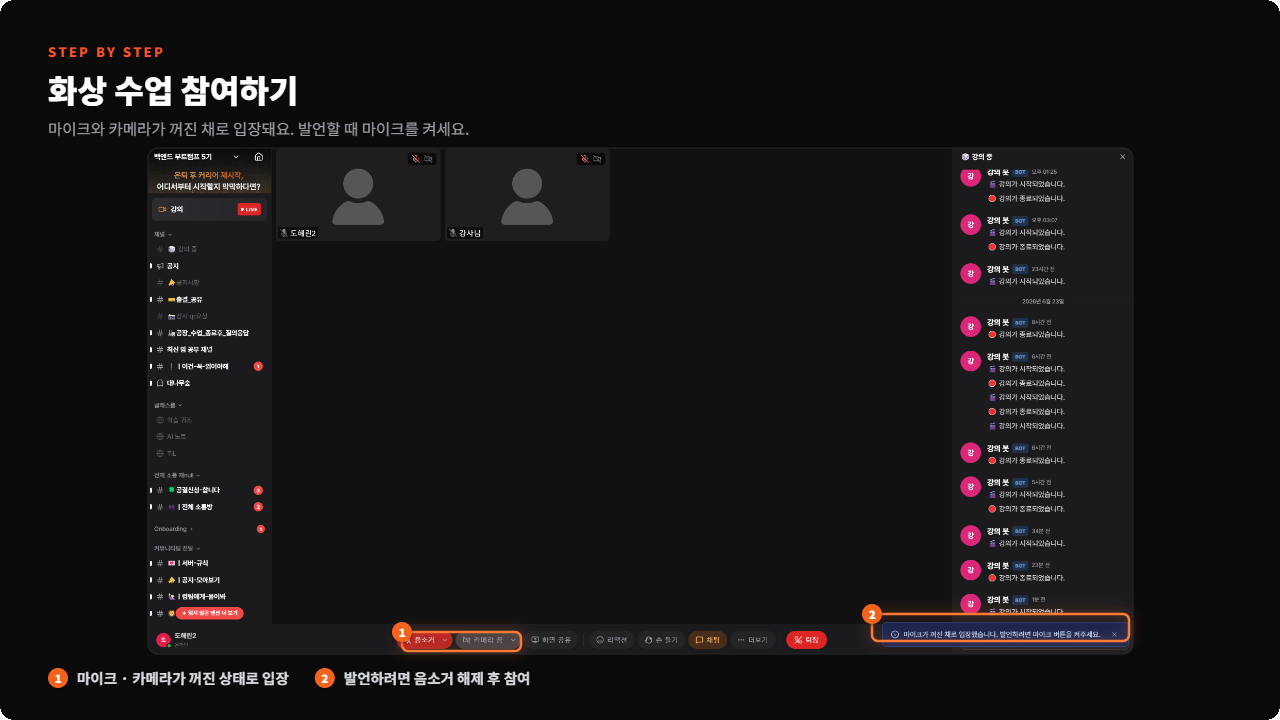
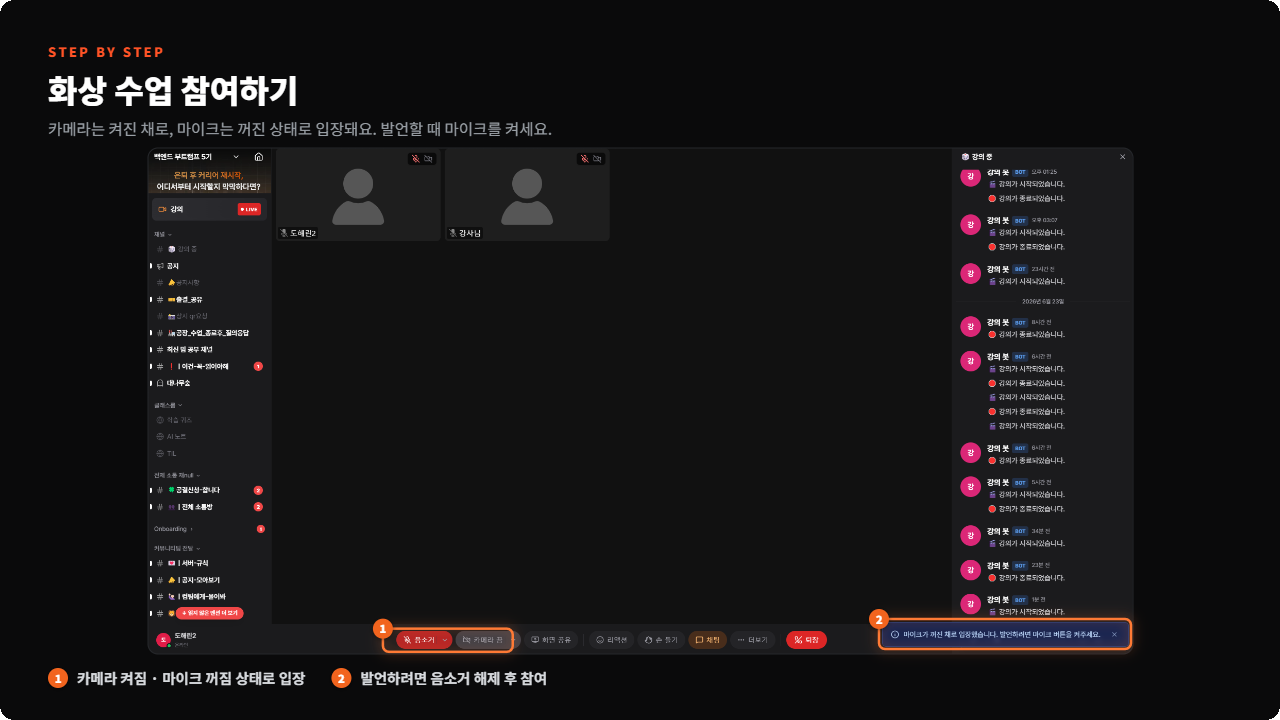
fix(campfire): 수강생 화상 수업 입장 정책 변경 (카메라 켜짐)
- 수업 입장 시 '마이크·카메라 꺼짐' → '카메라 켜짐, 마이크 꺼짐'으로 정책 반영 (본문 + 스크린샷 교체)

Changed region(s): [[0.0625, 0.8556, 0.4375, 0.9778], [0.6562, 0.825, 0.9062, 0.9167], [0.0312, 0.1528, 0.4375, 0.2139]]

diff --git a/campfire/1-planning/campfire-guide/student-data.js b/campfire/1-planning/campfire-guide/student-data.js
@@ -138,7 +138,7 @@ const GUIDE_DATA = [
         html:`
           <ol>
             <li>수업 시간이 되면 강사님이 강의를 열어요. 사이드바 맨 위 <strong>[강의]</strong> 버튼이 <strong>[Live]</strong>로 바뀌면 클릭해서 참여하세요!</li>
-            <li>입장하면 <strong>마이크·카메라는 꺼진 상태</strong>예요. 필요할 때 하단 버튼으로 직접 켜면 됩니다.</li>
+            <li>입장하면 <strong>카메라는 켜진 상태, 마이크는 꺼진 상태</strong>로 시작해요. 발언할 때 하단 🎤 버튼으로 마이크를 켜면 됩니다. (카메라는 출석 확인에 쓰이니 가능하면 켜 두세요)</li>
           </ol>
           <div class="callout callout--tip"><span class="callout__ico">💡</span><div>강사님이 <strong>수강생 호출</strong>을 보내면 알림이 와요. "아직 안 들어왔어요~" 신호이니 [강의] 버튼으로 들어와 주세요.</div></div>
           <div class="shot">📸 스크린샷: [강의] 버튼(Live) + 입장 직후 마이크/카메라 버튼</div>` },
